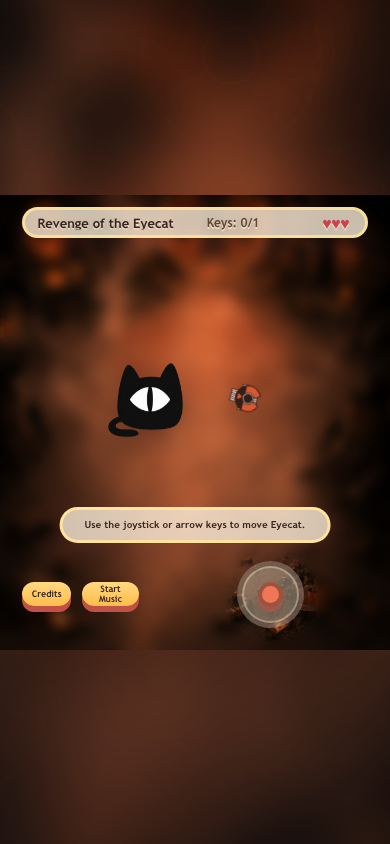
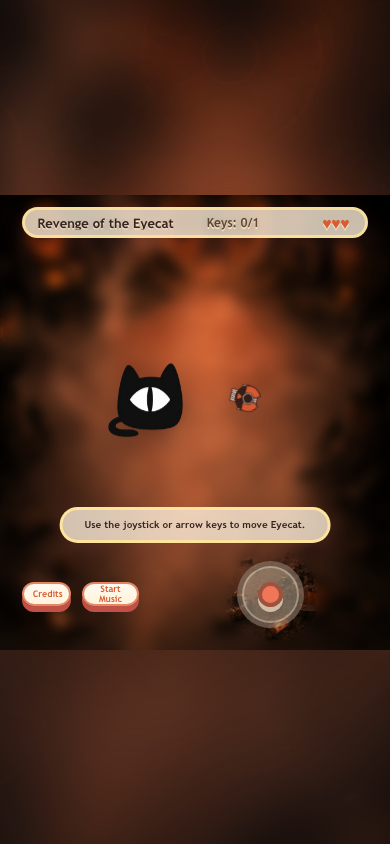
Tighten Eyecat prompts and controls

diff --git a/src/App.tsx b/src/App.tsx
@@ -13,6 +13,7 @@ const BACKGROUND_PATH = gameConfig.assets.background
 const MUSIC_PATH = gameConfig.assets.music
 const HEART = '\u2665'
 const ZERO_INPUT: JoystickInput = { x: 0, y: 0 }
+const PHASER_WORLD_SIZE = 672
 
 type MapPreset = {
   id: string
@@ -20,6 +21,12 @@ type MapPreset = {
   tagline: string
   mapText: string
   settings: PacRescueSettings
+}
+
+type HeartLossPopup = {
+  id: number
+  x?: number
+  y?: number
 }
 
 const baseSettings = sanitizeSettings({
@@ -96,7 +103,7 @@ export default function App() {
   const [musicEnabled, setMusicEnabled] = useState(true)
   const [musicStarted, setMusicStarted] = useState(false)
   const [audioUnlocked, setAudioUnlocked] = useState(false)
-  const [heartLossId, setHeartLossId] = useState(0)
+  const [heartLossPopup, setHeartLossPopup] = useState<HeartLossPopup | null>(null)
   const [showCredits, setShowCredits] = useState(false)
   const [showConcept, setShowConcept] = useState(false)
   const [devOpen, setDevOpen] = useState(false)
@@ -250,7 +257,11 @@ export default function App() {
     if (runtime.keysCollected > previous.keysCollected) playSfx('key')
     if (runtime.lives < previous.lives) {
       playSfx('hit')
-      setHeartLossId((id) => id + 1)
+      setHeartLossPopup((popup) => ({
+        id: (popup?.id ?? 0) + 1,
+        x: previous.playerScreenPosition?.x ?? runtime.playerScreenPosition?.x,
+        y: previous.playerScreenPosition?.y ?? runtime.playerScreenPosition?.y,
+      }))
     }
     if (runtime.status === 'won' && previous.status !== 'won') playSfx('win')
     if (runtime.status === 'gameover' && previous.status !== 'gameover') playSfx('gameover')
@@ -274,7 +285,7 @@ export default function App() {
     setStarted(shouldStart)
     setLevelPaused(shouldStart && shouldPause)
     setInstructionVisible(false)
-    setHeartLossId(0)
+    setHeartLossPopup(null)
     setRestartToken((token) => token + 1)
   }, [])
 
@@ -362,7 +373,9 @@ export default function App() {
         <section className="playfield-wrap" style={rectStyle(gameConfig.layout.playfield)}>
           <div className="playfield">
             {started ? <div className="game-host" ref={hostRef} /> : <StartPreview />}
-            {heartLossId > 0 ? <div className="heart-loss-popup" key={heartLossId} aria-hidden="true">-1 Heart</div> : null}
+            {heartLossPopup ? (
+              <div className="heart-loss-popup" key={heartLossPopup.id} style={heartLossStyle(heartLossPopup)} aria-hidden="true">-1 Heart</div>
+            ) : null}
           </div>
         </section>
 
@@ -370,7 +383,6 @@ export default function App() {
         {started && levelPaused ? (
           <div className="level-ready-prompt" style={centeredTextStyle(gameConfig.layout.eventPrompt)}>
             <strong>{activePreset.name}</strong>
-            <span>Use the joystick or arrow keys to move Eyecat.</span>
           </div>
         ) : null}
         {started && instructionVisible && !levelPaused ? (
@@ -689,6 +701,14 @@ function squareCenterStyle(square: { x: number; y: number; size: number }): CSSP
     width: square.size,
     height: square.size,
   })
+}
+
+function heartLossStyle(popup: HeartLossPopup): CSSProperties {
+  if (popup.x === undefined || popup.y === undefined) return {}
+  return {
+    left: `${(popup.x / PHASER_WORLD_SIZE) * 100}%`,
+    top: `${((popup.y - 40) / PHASER_WORLD_SIZE) * 100}%`,
+  }
 }
 
 function toPercent(value: number, total: number): string {

diff --git a/src/App.css b/src/App.css
@@ -10,8 +10,8 @@
   --gold: #f7dfad;
   --gold-strong: #e8c276;
   --button-shadow: #9f7242;
-  --orange: #ffbd4a;
-  --orange-bright: #ffd982;
+  --button-cream: #fff3dc;
+  --button-cream-bright: #fffaf0;
   --orange-deep: #d95b32;
   --orange-shadow: #bf5146;
   --teal: #8ed8d1;
@@ -66,10 +66,10 @@
 
 button {
   min-height: 0;
-  border: 0;
+  border: 2px solid rgba(217, 91, 50, 0.72);
   border-radius: 22px;
-  color: var(--cocoa);
-  background: linear-gradient(var(--orange-bright), var(--orange));
+  color: var(--orange-deep);
+  background: linear-gradient(var(--button-cream-bright), var(--button-cream));
   box-shadow: 0 6px 0 var(--orange-shadow);
   cursor: pointer;
   font: inherit;
@@ -143,6 +143,7 @@ a:focus-visible {
   padding: 0;
   color: var(--cocoa);
   background: transparent;
+  border: 0;
   box-shadow: none;
   text-align: left;
   text-shadow: 0 2px 0 rgba(255, 239, 211, 0.7), 0 4px 10px rgba(97, 45, 52, 0.14);
@@ -184,7 +185,7 @@ a:focus-visible {
   justify-content: end;
   gap: 2px;
   transform: translateY(-50%);
-  color: var(--rose);
+  color: var(--orange-deep);
   font-size: clamp(15px, 3.3cqw, 24px);
   font-weight: 750;
   line-height: 1;
@@ -274,7 +275,7 @@ a:focus-visible {
 }
 
 .level-ready-prompt {
-  padding: 6px 12px;
+  padding: 5px 12px;
   border-width: 2px;
   border-radius: 14px;
 }
@@ -313,7 +314,7 @@ a:focus-visible {
 
 .level-ready-prompt strong {
   color: var(--cocoa);
-  font-size: clamp(9px, 1.8cqw, 13px);
+  font-size: clamp(11px, 2cqw, 15px);
   line-height: 1.05;
 }
 
@@ -356,7 +357,7 @@ a:focus-visible {
 }
 
 .music-button.active {
-  background: linear-gradient(var(--orange-bright), var(--orange));
+  background: linear-gradient(var(--button-cream-bright), var(--button-cream));
   box-shadow: 0 6px 0 var(--orange-shadow);
 }
 
@@ -396,7 +397,7 @@ a:focus-visible {
   border: 4px solid rgba(53, 36, 31, 0.44);
   border-radius: 50%;
   background: rgba(255, 119, 87, 0.88);
-  box-shadow: 0 5px 0 rgba(191, 81, 70, 0.58), 0 14px 24px rgba(5, 8, 18, 0.18);
+  box-shadow: 0 5px 0 rgba(255, 232, 204, 0.68), 0 14px 24px rgba(5, 8, 18, 0.18);
 }
 
 .start-overlay {
@@ -508,6 +509,7 @@ a:focus-visible {
   width: 34px;
   height: 34px;
   padding: 0;
+  border: 0;
   border-radius: 999px;
   color: #fff8ea;
   background: linear-gradient(#f88372, #d94f63);

diff --git a/src/game/scenes/PacRescueScene.ts b/src/game/scenes/PacRescueScene.ts
@@ -429,6 +429,7 @@ export class PacRescueScene extends Phaser.Scene {
 
   private emitRuntime(force: boolean): void {
     const progress = this.progress()
+    const playerPosition = actorPosition(this.player, this.level)
     const instruction = instructionForProgress(
       progress,
       this.settings,
@@ -441,6 +442,10 @@ export class PacRescueScene extends Phaser.Scene {
       message: this.options.editorMode ? 'Editing map. Switch to Play to move.' : this.message,
       instruction: instruction.text,
       instructionPhase: instruction.phase,
+      playerScreenPosition: {
+        x: this.cx(playerPosition.x),
+        y: this.cy(playerPosition.y),
+      },
       coinGoal: rescueCoinGoal(progress.totalCoins, this.settings.coinGoalPercent),
       requiredKeys: this.requiredKeys(),
       lives: this.lives,

diff --git a/src/game/pacrescue/types.ts b/src/game/pacrescue/types.ts
@@ -97,6 +97,7 @@ export type RuntimeSnapshot = RescueProgress & {
   message: string
   instruction: string
   instructionPhase: InstructionPhase
+  playerScreenPosition?: GridPoint
   coinGoal: number
   requiredKeys: number
   lives: number